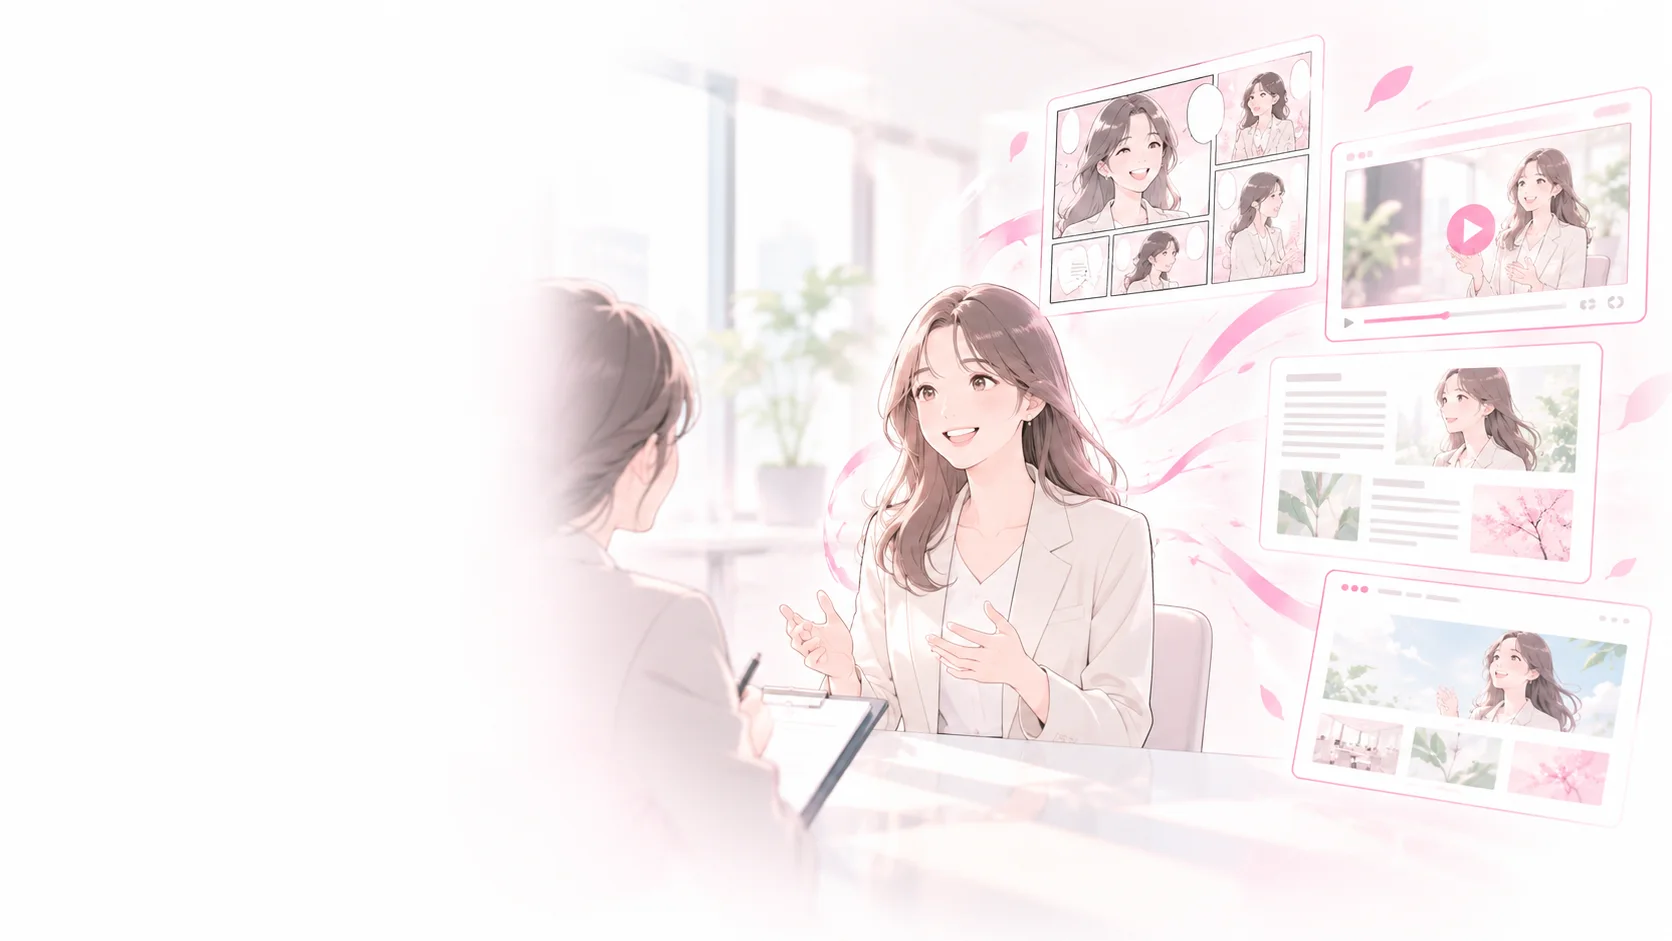
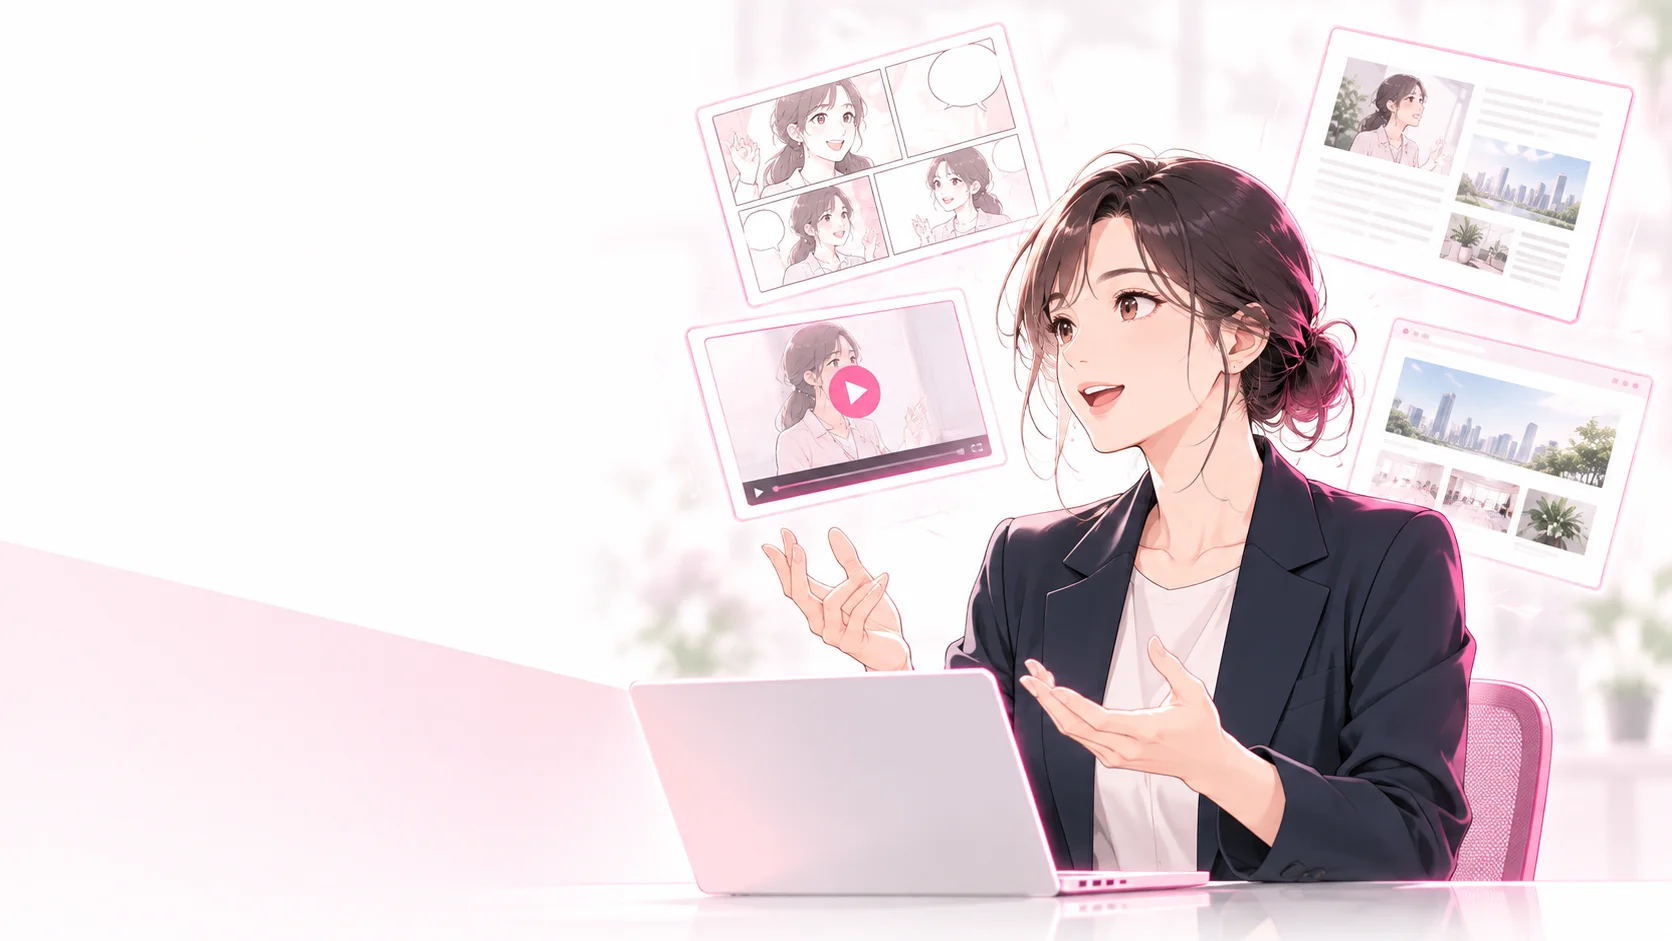
feat(service): ヒーローのキービジュアルを作り直したものに差し替える
1枚目は全体が淡い色でまとまっていて、画面内に濃い色の塊が無く印象が弱かった。
主役に濃紺のジャケットを着せ、背景を白く飛ばして明暗差で浮かせた版に差し替える。

あわせて、CSS側の白グラデーションを弱めた。新しい素材は左4割を白で抜いてあり、
以前の設定（不透明44%→78%で透明）のままだと素材の4パネル（漫画・動画・記事・
掲載ページ）まで白で消えてしまうため、18%→50% に詰めた。

画像は cwebp -q 84 で 93KB（1672×941）。

ローカル確認: 500〜1920px で横スクロールなし、見出しは各行とも折返しなしの2行。

diff --git a/css/service.css b/css/service.css
@@ -418,12 +418,13 @@
       linear-gradient(to top,
         #fff 0 1%,
         rgba(255, 255, 255, 0) 16%),
-      /* 左: コピーの下地。素材側の白フェードだけだと画面幅によって文字に写真がかかる */
+      /* 左: コピーの下地。素材自体が左4割を白で抜いてあるので、ここは薄く重ねるだけでよい。
+         濃く広げると素材の4パネル（漫画・動画・記事・掲載ページ）まで白で消えてしまう */
       linear-gradient(96deg,
-        #fff 0 44%,
-        rgba(255, 255, 255, .95) 54%,
-        rgba(255, 255, 255, .6) 64%,
-        rgba(255, 255, 255, 0) 78%);
+        #fff 0 18%,
+        rgba(255, 255, 255, .88) 28%,
+        rgba(255, 255, 255, .45) 38%,
+        rgba(255, 255, 255, 0) 50%);
     pointer-events: none;
   }
 }

diff --git a/docs/specs/SPEC.md b/docs/specs/SPEC.md
@@ -156,7 +156,9 @@
   - ページ専用スタイルは `css/service.css`（`--sv-*` トークン・`rx-svc-` 名前空間）。見た目は 2026-09-27 デザイン案のホームに合わせる（見出し＝Zen Kaku Gothic Antique 900・**明朝は使わない**／ラベル＝「01 つくる」＋横罫／背景＝白と `#fafafa` の交互＋淡いピンクの斜め面）。**home.css には依存しない**
   - JSは追加なし。出現アニメは `style.css` の `.rx-anim` ＋ `js/main.js` の共通ブロックのみ（ホーム専用の処理は `.rx-home` ガードの内側なので走らない）
   - **写真はヒーローと 02 届ける の2か所だけ**。それ以外は図解と線画アイコンのみで、ホーム 05・06 の「大きな人物写真は置かない」方針を保つ
-    - ヒーロー＝`images/service/service-hero.webp`（**このページ専用に作成**・1672×941・cwebp -q 84 で 67KB）。取材を受けている社員から、漫画・動画・記事・掲載ページが広がっていく構図で、見出し「1回の取材を、採用のすべての場面へ。」がそのまま絵になる。素材は**左3割が白の余白・右に主題**という前提で作ってある
+    - ヒーロー＝`images/service/service-hero.webp`（**このページ専用に作成**・1672×941・cwebp -q 84 で 93KB）。取材で話している社員から、漫画・動画・記事・掲載ページが広がっていく構図で、見出し「1回の取材を、採用のすべての場面へ。」がそのまま絵になる。素材は**左4割が白の余白・右に主題**という前提で作ってある
+      - ⚠ **画面内に濃い色の塊を1つ置く**のがこの絵の効きどころ（主役の濃紺のジャケット）。背景を白く飛ばし、そこだけ明暗差で浮かせる。全体を淡い色でまとめると印象が弱くなる（2026-09-28 に1枚目を作り直した理由）
+      - ⚠ **素材自体が左4割を白で抜いてある**ので、CSS側の白グラデーションは薄く重ねるだけでよい。濃く広げると素材の4パネル（漫画・動画・記事・掲載ページ）まで白で消える
     - **≥1200px は写真をヒーロー全面に敷く**（`position: absolute` ＋ `right: min(0px, (var(--svc-cw) - 100vw)/2)` で画面右端までブリード。はみ出しは `.rx-svc-hero` の `overflow: clip` が切る）。`::after` に2層のグラデーションを重ね、**左**は白→透明でコピーの下地をつくり、**下端**は白へ溶かして次のセクションとの切れ目を消す
       - ⚠ **1200px 未満でこの扱いにすると見出しが写真に重なって読めない**。それ未満は コピー → 写真 → 目次 の縦積みに任せる（`@media (max-width: 1199px)`）
       - ⚠ 箱が縦長だと左右が切れて**右の4パネルが欠ける**。`left: 16%` でコピーの下まで回り込ませ、箱の比率を素材（16:9）に近づけている
